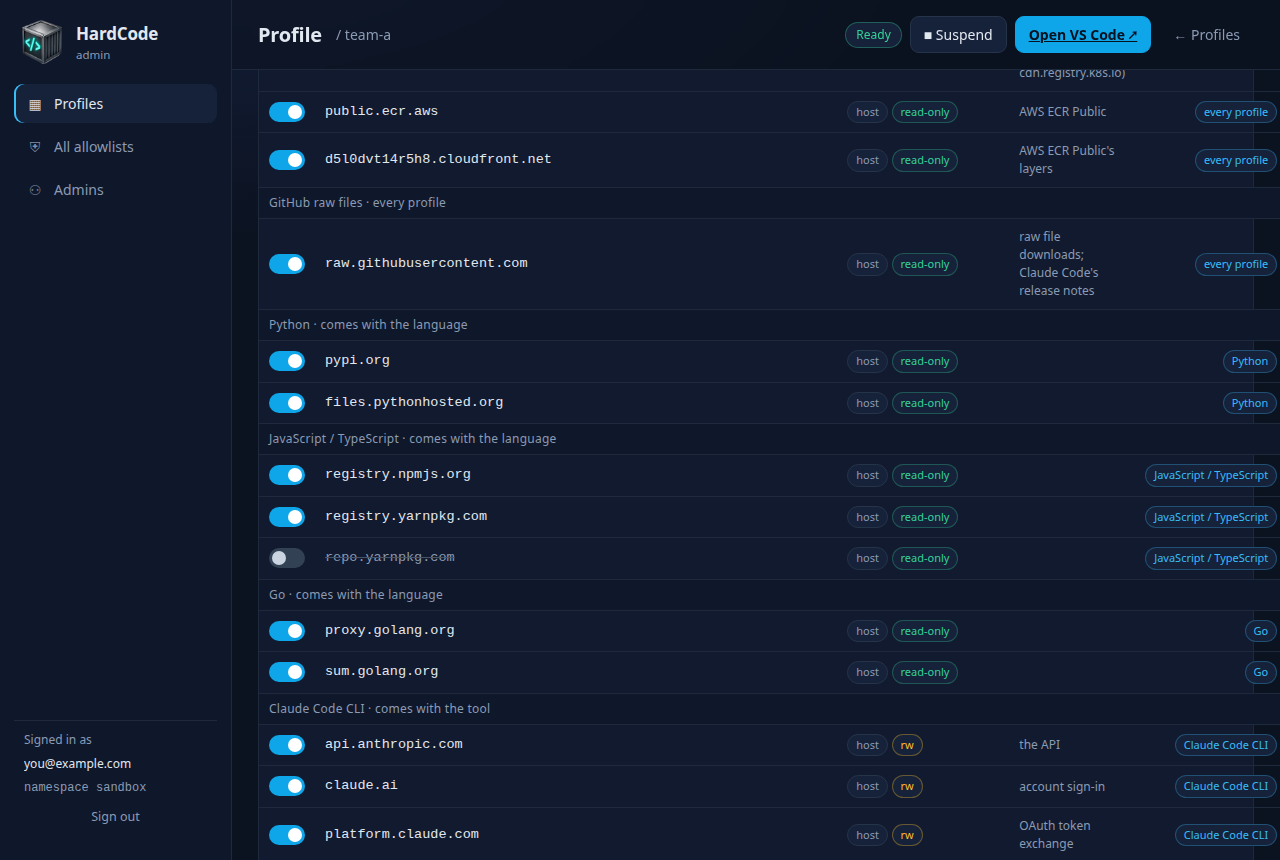
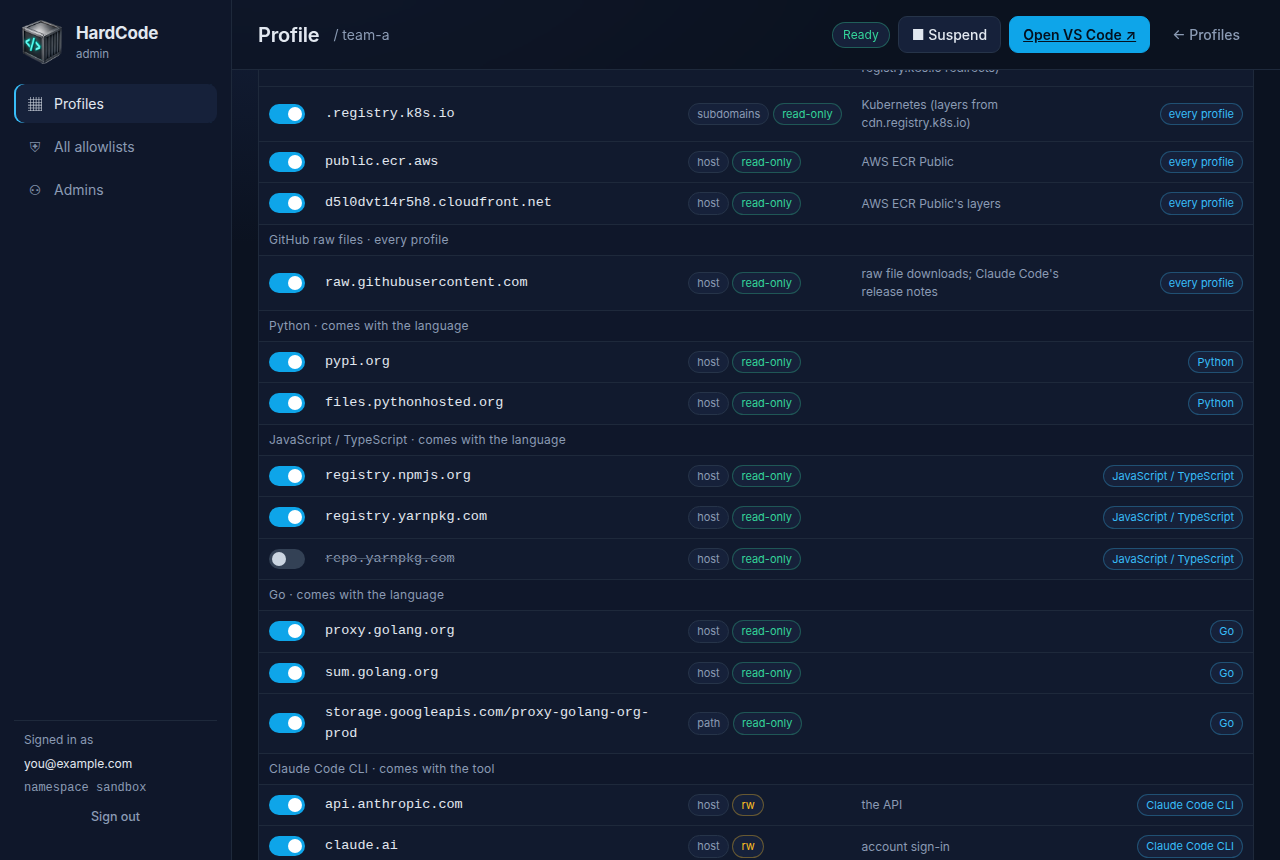
docs: the screenshots for the new languages, tools and allowlist order
- fix(app): a long allowlist entry wraps instead of widening the table, so
  the admin's column of badges no longer runs off its edge (Go's
  storage.googleapis.com/proxy-golang-org-prod did it). The admin takes the
  app's styles, so both are fixed.
- fix(docs): screenshots.sh deletes each picture before taking it. Chrome's
  output goes nowhere, so a Chrome that didn't start used to leave the last
  run's picture to pass for the new one.
- docs: every screenshot taken again but the admin's sign-up page, which is
  unchanged and whose QR code comes from the admin image. They now show
  the profile's own entries first, the template's two examples, Android,
  Kubernetes, and Go's bucket.

Made in a container, mcr.microsoft.com/playwright/python:v1.64.1-noble,
with Ubuntu's fonts-inter installed (Inter is the pages' first font, so the
pictures match the earlier ones' type) and Chromium run without its
sandbox, as root in a throwaway container showing only the fixture pages.
Looked at: the Overview, the Allowlist, Languages / Tools, the new-profile
dialog, and the admin's Allowlist and Languages tabs.

diff --git a/app/src/styles.css b/app/src/styles.css
@@ -592,6 +592,12 @@ tr.section-row td {
   letter-spacing: .02em;
 }
 
+/* A long entry (a path such as storage.googleapis.com/proxy-golang-org-prod)
+   wraps, rather than widening the table past its columns of badges. */
+td.entry {
+  overflow-wrap: anywhere;
+}
+
 tr.disabled td.entry {
   color: var(--muted);
   text-decoration: line-through;
